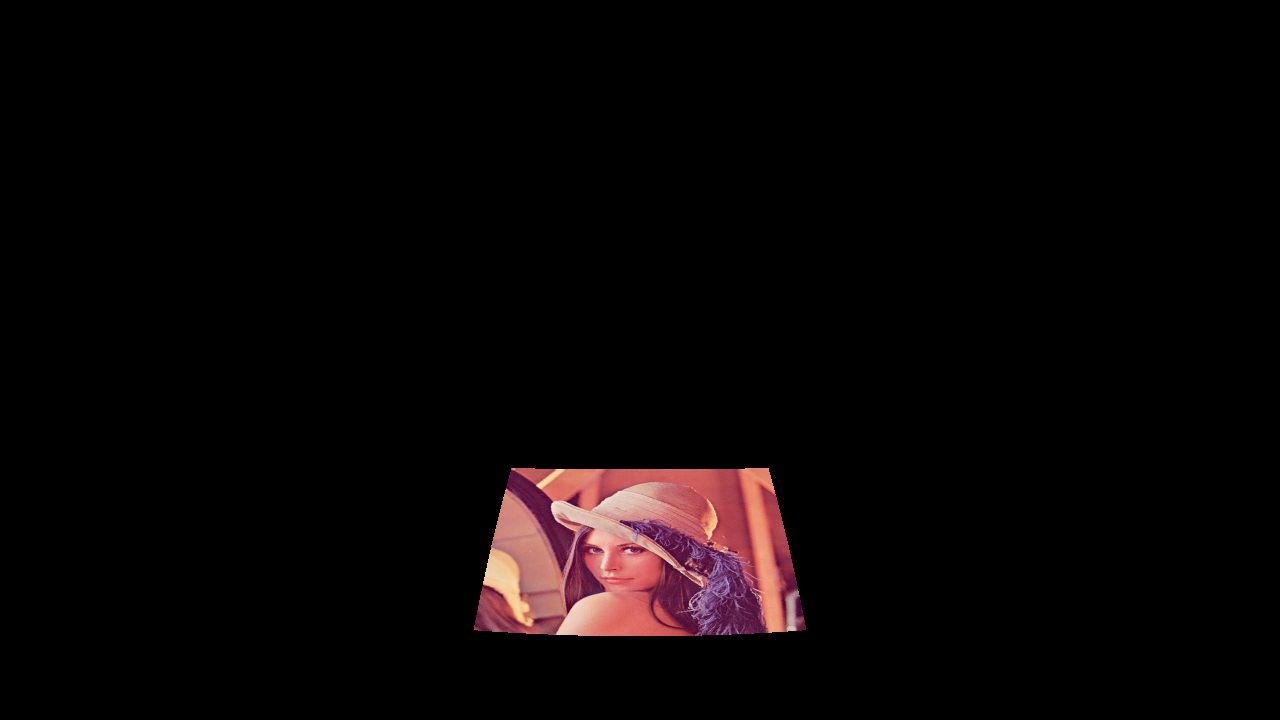
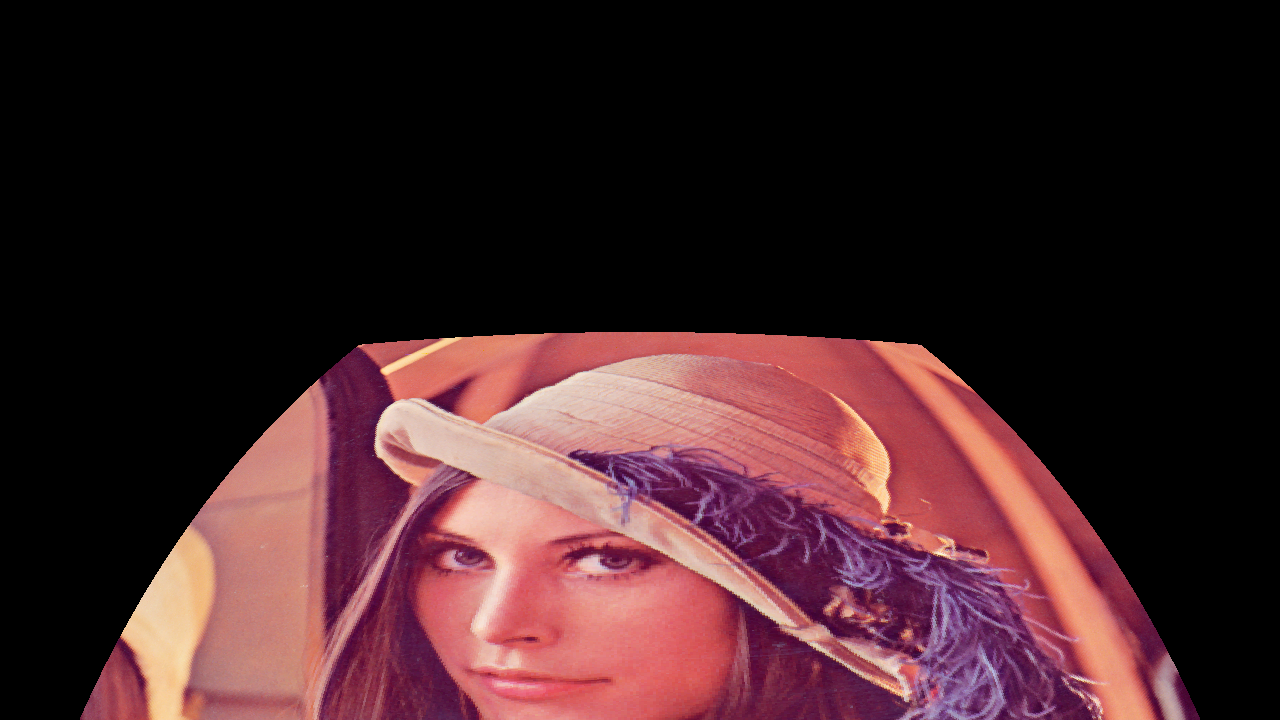
Got rid of the halo.
Restricted the mapping to points that are in front of the animal for now.

diff --git a/DomeProjection/Software/Python/dome_projection.py b/DomeProjection/Software/Python/dome_projection.py
@@ -12,8 +12,7 @@ projector pixel are calculated from pixels in the OpenGL image such that the
 pixels in the OpenGL image and the corresponding region seen by the animal are
 in the same direction.  A mapping from projector pixels to the animal's
 viewpoint is used to determine which pixels in the OpenGL image contribute to
-each projector pixel.  The RGB values for each projector pixel are the
-average of the RGB values from the OpenGL image contributing pixels.
+each projector pixel.  
 """
 
 DEBUG = True
@@ -37,10 +36,10 @@ class DomeProjection:
                  screen_height = 1,
                  screen_width = 1,
                  distance_to_screen = 0.5,
-                 #image_pixel_height = 720,
-                 #image_pixel_width = 1280,
-                 image_pixel_height = 512,
-                 image_pixel_width = 512,
+                 image_pixel_height = 720,
+                 image_pixel_width = 1280,
+                 #image_pixel_height = 512,
+                 #image_pixel_width = 512,
                  projector_pixel_height = 720,
                  projector_pixel_width = 1280,
                  first_projector_image = [[-0.09, 0.43, 0.18],
@@ -387,17 +386,24 @@ class DomeProjection:
                     which OpenGL image pixel has the closest direction.
                     """
                     direction = self._animal_view_directions[row, col]
-                    # calculate the magnitude required to hit the screen
-                    magnitude = self._distance_to_screen / direction[1]
-                    z_component = magnitude * direction[2]
-                    x_component = magnitude * direction[0]
-                    r = int((self._image_pixel_height - 1)
-                            * (1 - z_component / self._screen_height - 0.5))
-                    c = int((self._image_pixel_width - 1)
-                            * (x_component / self._screen_width + 0.5))
-                    if (r >= 0 and r < self._image_pixel_height
-                        and c >= 0 and c < self._image_pixel_width):
-                        contributing_pixels[row][col].append([r, c])
+                    if direction[1] > 0:
+                        """
+                        limit ourselves to pixels that project in front of
+                        the animal for now
+                        """
+                        # calculate the magnitude required to hit the screen
+                        magnitude = self._distance_to_screen / direction[1]
+                        z_component = magnitude * direction[2]
+                        x_component = magnitude * direction[0]
+                        # calculate row and column of closest OpenGL pixel
+                        r = int((self._image_pixel_height - 1)
+                                * (1 - z_component / self._screen_height - 0.5))
+                        c = int((self._image_pixel_width - 1)
+                                * (x_component / self._screen_width + 0.5))
+                        # make sure the pixel is inside the OpenGL image and the 
+                        if (r >= 0 and r < self._image_pixel_height
+                            and c >= 0 and c < self._image_pixel_width):
+                            contributing_pixels[row][col].append([r, c])
 
         return contributing_pixels
 
